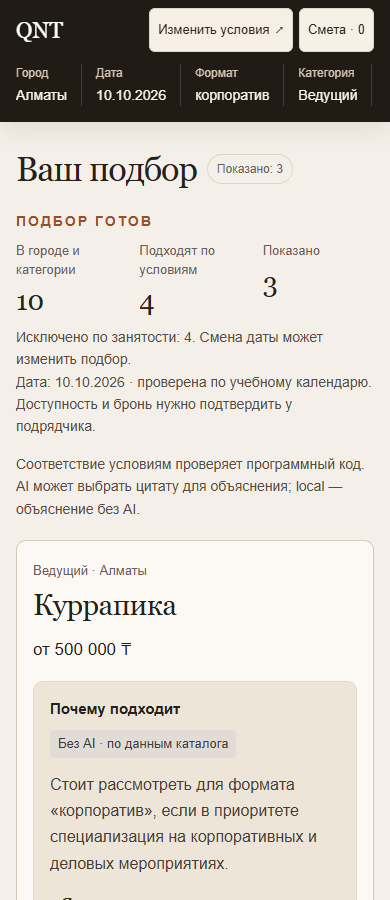
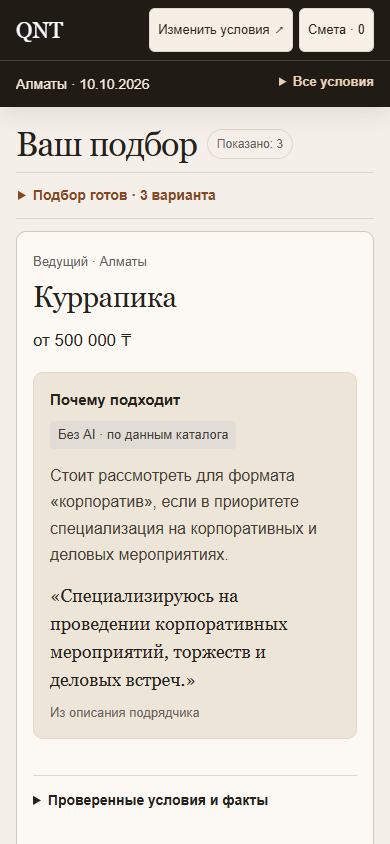
Show contractor cards sooner on mobile with compact disclosures

diff --git a/frontend/src/ResultDetails.tsx b/frontend/src/ResultDetails.tsx
@@ -16,8 +16,8 @@ export function evidenceValue(field: string, value: string): string {
 
 export function ResultSummary({ result, date }: { result: Match; date: string }) {
  const displayDate = date.split('-').reverse().join('.');
- return <div className="summary result-summary">
-  <p className="eyebrow">{result.status === 'matches_found' ? 'ПОДБОР ГОТОВ' : result.status === 'category_missing' ? 'КАТЕГОРИИ НЕТ В ЭТОМ ГОРОДЕ' : 'НЕТ СОВПАДЕНИЙ ПО УСЛОВИЯМ'}</p>
+ const title = result.status === 'matches_found' ? 'ПОДБОР ГОТОВ' : result.status === 'category_missing' ? 'КАТЕГОРИИ НЕТ В ЭТОМ ГОРОДЕ' : 'НЕТ СОВПАДЕНИЙ ПО УСЛОВИЯМ';
+ const information = <>
   <dl className="result-counts">
    <div><dt>В городе и категории</dt><dd>{result.total_in_category}</dd></div>
    <div><dt>Подходят по условиям</dt><dd>{result.eligible_count}</dd></div>
@@ -27,7 +27,14 @@ export function ResultSummary({ result, date }: { result: Match; date: string })
    {result.eligible_count < 3 && <p>{result.eligible_count > 0 ? 'Показаны все подходящие варианты.' : 'Ни один профиль не прошёл все условия.'} {result.rejections.some(r => r.count > 0) ? 'Причины отсева — под результатами; можно изменить условия и повторить подбор.' : 'В каталоге мало профилей этой категории.'}</p>}
    <p className="calendar-note">Исключено по занятости: {result.rejections.find(r => r.code === 'busy')?.count ?? 0}. Смена даты может изменить подбор.<br/>Дата: {displayDate} · проверена по учебному календарю.<br/>Доступность и бронь нужно подтвердить у подрядчика.</p>
   </>}
- </div>;
+ </>;
+ return <><div className="summary result-summary desktop-summary">
+  <p className="eyebrow">{title}</p>{information}
+ </div>
+ <details className="mobile-summary" open={result.returned_count === 0}>
+  <summary>{result.returned_count > 0 ? `Подбор готов · ${result.returned_count} ${result.returned_count === 1 ? 'вариант' : result.returned_count === 2 ? 'варианта' : 'варианта'}` : title}</summary>
+  <div className="mobile-summary-body">{information}<p>Соответствие условиям проверяет программный код. AI может выбрать цитату для объяснения; local — объяснение без AI.</p></div>
+ </details></>;
 }
 
 export function ContractorCard({ card, index = 0, selected = false, selectingReplacement = false, onSelect }: { card: Card; index?: number; selected?: boolean; selectingReplacement?: boolean; onSelect?: () => void }) {

diff --git a/frontend/src/main.tsx b/frontend/src/main.tsx
@@ -125,7 +125,18 @@ function App() {
   <main ref={screen} className={compact ? 'has-results' : undefined}><div className="hero" ref={resultHeader}><header><a className="brand" href="./"><span className="mark" aria-hidden="true">✳</span> QNT <span className="brand-case">/ Firebird</span></a>{compact ? <button className="edit-conditions" onClick={editConditions} aria-controls="event-form" aria-expanded={false}>Изменить условия <span aria-hidden="true">↗</span></button> : <span className="tag">СОБЫТИЯ НАЧИНАЮТСЯ С ЛЮДЕЙ</span>}<button className="estimate-nav" type="button" onClick={() => { estimateSection.current?.focus({preventScroll:true}); estimateSection.current?.scrollIntoView({block: 'start'}); }}>Смета · {estimate.length}</button></header>
   {compact && <section className="conditions" aria-labelledby="conditions-title">
    <h1 id="conditions-title" className="sr-only">Условия вашего события</h1>
-   <dl className="conditions-list" tabIndex={0} aria-label="Условия подбора; на узком экране список прокручивается по горизонтали">
+   <div className="conditions-glance">
+    <span>{form.city} <span aria-hidden="true">·</span> {form.date.split('-').reverse().join('.')}<span className="glance-category"> <span aria-hidden="true">·</span> {form.category}</span></span>
+    <details className="conditions-mobile"><summary>Все условия</summary>
+     <dl className="conditions-menu">
+      <div><dt>Город</dt><dd>{form.city}</dd></div><div><dt>Дата</dt><dd>{form.date.split('-').reverse().join('.')}</dd></div>
+      <div><dt>Формат</dt><dd>{form.event_format}</dd></div><div><dt>Категория</dt><dd>{form.category}</dd></div>
+      <div><dt>Бюджет на одного</dt><dd>до {new Intl.NumberFormat('ru-RU').format(Number(form.budget_kzt))} ₸</dd></div>
+      <div><dt>Язык</dt><dd>{form.language || 'Без ограничения'}</dd></div><div><dt>Длительность</dt><dd>{form.duration_hours ? `${form.duration_hours} ч` : 'Без ограничения'}</dd></div>
+     </dl>
+    </details>
+   </div>
+   <dl className="conditions-list conditions-desktop">
     <div><dt>Город</dt><dd>{form.city}</dd></div><div><dt>Дата</dt><dd>{form.date.split('-').reverse().join('.')}</dd></div>
     <div><dt>Формат</dt><dd>{form.event_format}</dd></div><div><dt>Категория</dt><dd>{form.category}</dd></div>
     <div><dt>Бюджет на одного</dt><dd>до {new Intl.NumberFormat('ru-RU').format(Number(form.budget_kzt))} ₸</dd></div>

diff --git a/frontend/src/mobile.css b/frontend/src/mobile.css
@@ -1,6 +1,27 @@
 /* Mobile reading layout. Keep the desktop editorial composition unchanged. */
 main { overflow-anchor: none; }
+.conditions-glance, .mobile-summary { display: none; }
 @media (max-width: 760px) {
+ .has-results .hero { padding-bottom: 0; }
+ .has-results header { min-height: 56px; }
+ .has-results .conditions { padding: 0 16px; border-top: 1px solid #ffffff2b; }
+ .has-results .conditions-desktop { display: none; }
+ .conditions-glance { display: flex; align-items: center; justify-content: space-between; gap: 8px; min-height: 46px; }
+ .conditions-glance > span { min-width: 0; overflow: hidden; white-space: nowrap; text-overflow: ellipsis; color: #f6ecdf; font-size: 14px; }
+ .conditions-mobile { display: block; position: relative; flex: 0 0 auto; }
+ .conditions-mobile > summary { min-height: 44px; padding: 10px 0 10px 8px; color: #ecd3b8; white-space: nowrap; font-size: 13px; font-weight: 600; }
+ .conditions-menu { position: absolute; right: 0; top: 100%; z-index: 22; display: grid; grid-template-columns: repeat(2, minmax(0, 1fr)); gap: 13px; width: min(340px, calc(100vw - 32px)); max-height: calc(100dvh - 112px); overflow-y: auto; padding: 16px; margin: 0; border: 1px solid #77624d; border-radius: 0 0 10px 10px; background: #2b241d; box-shadow: 0 12px 24px #0005; }
+ .conditions-menu dt { margin: 0 0 3px; color: #d0beaa; font-size: 12px; }
+ .conditions-menu dd { margin: 0; color: #fff8ed; font-size: 14px; line-height: 1.4; overflow-wrap: anywhere; }
+ .has-results .content { padding-top: 18px; }
+ .has-results .results > .section-title { margin-bottom: 9px; }
+ .desktop-summary, .has-results .explanation-note { display: none; }
+ .mobile-summary { display: block; margin-bottom: 12px; border-top: 1px solid var(--line); border-bottom: 1px solid var(--line); }
+ .mobile-summary > summary { min-height: 44px; padding: 12px 2px; font-size: 14px; font-weight: 600; color: #864821; }
+ .mobile-summary-body { padding: 2px 2px 14px; }
+ .mobile-summary-body > p { font-size: 14px; line-height: 1.6; }
+ .mobile-summary .result-counts { margin: 8px 0; }
+ .mobile-summary .calendar-note { line-height: 1.6; }
  .content { padding: 24px 16px; }
  .card { display: block; padding: 20px 16px; margin-bottom: 18px; border-color: #d5c9bc; }
  .card-index { display: none; }
@@ -54,6 +75,7 @@ main { overflow-anchor: none; }
  footer { font-size: 12px; line-height: 1.6; }
 }
 @media (max-width: 430px) {
+ .glance-category { display: none; }
  .fields { grid-template-columns: minmax(0, 1fr); }
  .has-results .results h2 { font-size: 34px; }
  .has-results .results > .section-title .step { display: none; }
